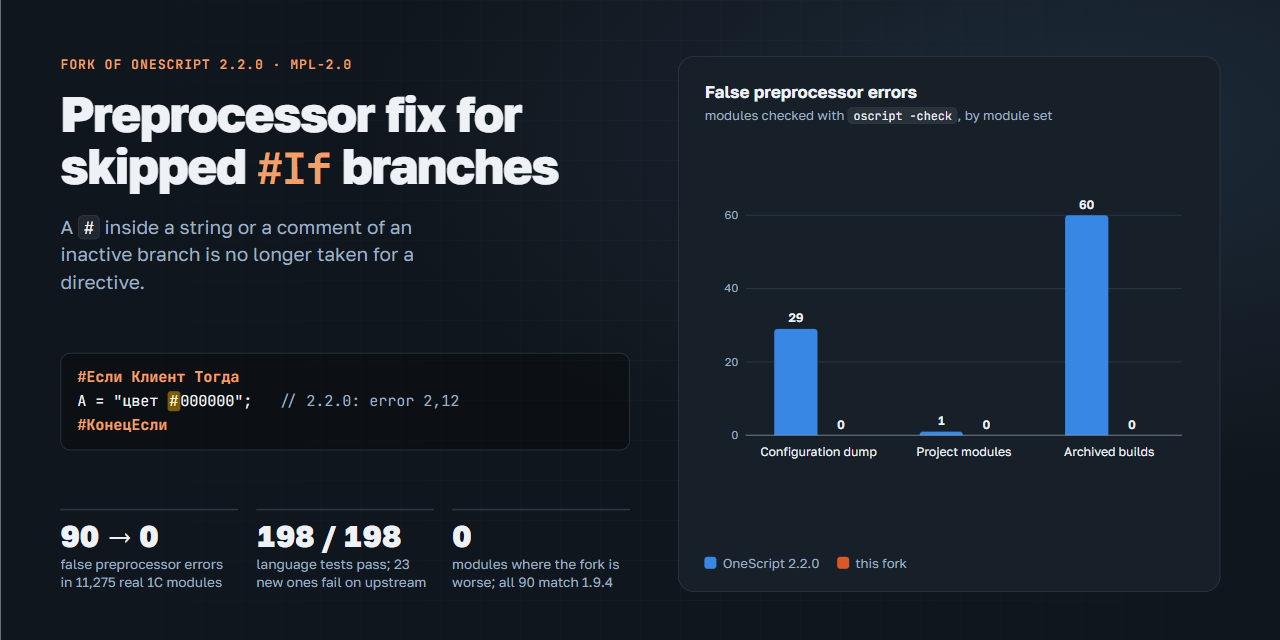
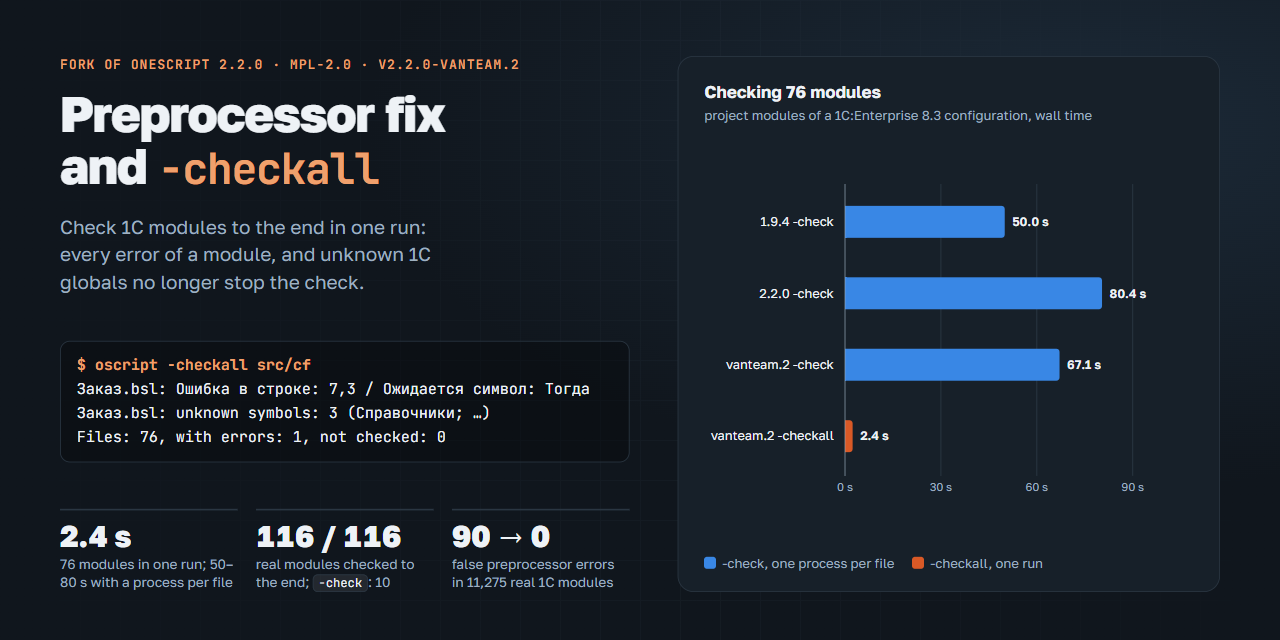
docs: page for v2.2.0-vanteam.2: -checkall measurements, new cover

diff --git a/index.html b/index.html
@@ -3,10 +3,10 @@
 <head>
 <meta charset="utf-8">
 <meta name="viewport" content="width=device-width, initial-scale=1, viewport-fit=cover">
-<title>OneScript preprocessor fix</title>
-<meta name="description" content="A fork of OneScript 2.2.0: a # inside strings and comments of an inactive #If branch is no longer taken for a directive. 90 false errors to 0 on 11,275 real 1C modules.">
-<meta property="og:title" content="OneScript preprocessor fix">
-<meta property="og:description" content="A fork of OneScript 2.2.0: a # inside strings and comments of an inactive #If branch is no longer taken for a directive. 90 false errors to 0 on 11,275 real 1C modules.">
+<title>OneScript fork: preprocessor fix and -checkall</title>
+<meta name="description" content="A fork of OneScript 2.2.0 for checking 1C code: oscript -checkall checks whole modules in one run (76 modules in 2.4 s instead of 50–80 s), and a # inside strings of an inactive #If branch is no longer taken for a directive.">
+<meta property="og:title" content="OneScript fork: preprocessor fix and -checkall">
+<meta property="og:description" content="A fork of OneScript 2.2.0 for checking 1C code: oscript -checkall checks whole modules in one run (76 modules in 2.4 s instead of 50–80 s), and a # inside strings of an inactive #If branch is no longer taken for a directive.">
 <meta property="og:image" content="https://ivanbokhan84.github.io/OneScript/cover.png">
 <meta property="og:url" content="https://ivanbokhan84.github.io/OneScript/">
 <meta name="twitter:card" content="summary_large_image">
@@ -141,26 +141,55 @@ footer { color: var(--faint); font-size: 13px; border-top: 1px solid var(--line)
 <header class="hero" id="cover">
   <div class="left">
     <div>
-      <div class="kicker">Fork of OneScript 2.2.0 · MPL-2.0</div>
-      <h1>Preprocessor fix for skipped <span class="code">#If</span> branches</h1>
-      <p class="tag">A <code>#</code> inside a string or a comment of an inactive branch is no longer taken for a directive.</p>
+      <div class="kicker">Fork of OneScript 2.2.0 · MPL-2.0 · v2.2.0-vanteam.2</div>
+      <h1>Preprocessor fix and <span class="code">-checkall</span></h1>
+      <p class="tag">Check 1C modules to the end in one run: every error of a module, and unknown 1C globals no longer stop the check.</p>
     </div>
-    <div class="snippet"><span class="dir">#Если Клиент Тогда</span>
-А = "цвет <mark>#</mark>000000";   <span style="color:#9fb0c0">// 2.2.0: error 2,12</span>
-<span class="dir">#КонецЕсли</span></div>
+    <div class="snippet"><span class="dir">$ oscript -checkall src/cf</span>
+Заказ.bsl: Ошибка в строке: 7,3 / Ожидается символ: Тогда
+Заказ.bsl: unknown symbols: 3 (Справочники; …)
+Files: 76, with errors: 1, not checked: 0</div>
     <div class="stats">
+      <div class="stat"><b>2.4 s</b><span>76 modules in one run; 50–80 s with a process per file</span></div>
+      <div class="stat"><b>116 / 116</b><span>real modules checked to the end; <code>-check</code>: 10</span></div>
       <div class="stat"><b>90 → 0</b><span>false preprocessor errors in 11,275 real 1C modules</span></div>
-      <div class="stat"><b>198 / 198</b><span>language tests pass; 23 new ones fail on upstream</span></div>
-      <div class="stat"><b>0</b><span>modules where the fork is worse; all 90 match 1.9.4</span></div>
     </div>
   </div>
   <div class="right">
-    <div><h2>False preprocessor errors</h2><div class="sub">modules checked with <code>oscript -check</code>, by module set</div></div>
-    <svg viewBox="0 0 520 300" role="img" aria-label="False preprocessor errors per module set: OneScript 2.2.0 versus the fork" xmlns="http://www.w3.org/2000/svg"><line x1="44" y1="252.0" x2="508" y2="252.0" stroke="var(--h-line)"/><text x="36" y="256.0" text-anchor="end" font-size="12" fill="var(--h-muted)">0</text><line x1="44" y1="174.0" x2="508" y2="174.0" stroke="var(--h-line)"/><text x="36" y="178.0" text-anchor="end" font-size="12" fill="var(--h-muted)">20</text><line x1="44" y1="96.0" x2="508" y2="96.0" stroke="var(--h-line)"/><text x="36" y="100.0" text-anchor="end" font-size="12" fill="var(--h-muted)">40</text><line x1="44" y1="18.0" x2="508" y2="18.0" stroke="var(--h-line)"/><text x="36" y="22.0" text-anchor="end" font-size="12" fill="var(--h-muted)">60</text><path d="M74.3,252.0 V142.9 Q74.3,138.9 78.3,138.9 H116.3 Q120.3,138.9 120.3,142.9 V252.0 Z" fill="var(--h-s1)"><title>Configuration dump — 2.2.0: 29</title></path><text x="97.3" y="131.9" text-anchor="middle" font-size="13" font-weight="600" fill="var(--h-ink)">29</text><text x="145.3" y="245.0" text-anchor="middle" font-size="13" font-weight="600" fill="var(--h-ink)">0</text><text x="121.3" y="274" text-anchor="middle" font-size="13" fill="var(--h-ink)">Configuration dump</text><path d="M229.0,252.0 V252.1 Q229.0,248.1 233.0,248.1 H271.0 Q275.0,248.1 275.0,252.1 V252.0 Z" fill="var(--h-s1)"><title>Project modules — 2.2.0: 1</title></path><text x="252.0" y="241.1" text-anchor="middle" font-size="13" font-weight="600" fill="var(--h-ink)">1</text><text x="300.0" y="245.0" text-anchor="middle" font-size="13" font-weight="600" fill="var(--h-ink)">0</text><text x="276.0" y="274" text-anchor="middle" font-size="13" fill="var(--h-ink)">Project modules</text><path d="M383.7,252.0 V22.0 Q383.7,18.0 387.7,18.0 H425.7 Q429.7,18.0 429.7,22.0 V252.0 Z" fill="var(--h-s1)"><title>Archived builds — 2.2.0: 60</title></path><text x="406.7" y="11.0" text-anchor="middle" font-size="13" font-weight="600" fill="var(--h-ink)">60</text><text x="454.7" y="245.0" text-anchor="middle" font-size="13" font-weight="600" fill="var(--h-ink)">0</text><text x="430.7" y="274" text-anchor="middle" font-size="13" fill="var(--h-ink)">Archived builds</text><line x1="44" y1="252" x2="508" y2="252" stroke="var(--h-muted)" stroke-opacity=".6"/></svg>
-    <div class="legend"><span><i style="background:var(--h-s1)"></i>OneScript 2.2.0</span><span><i style="background:var(--h-s2)"></i>this fork</span></div>
+    <div><h2>Checking 76 modules</h2><div class="sub">project modules of a 1C:Enterprise 8.3 configuration, wall time</div></div>
+    <svg viewBox="0 0 520 342" role="img" aria-label="Time to check 76 modules of a 1C configuration" xmlns="http://www.w3.org/2000/svg"><line x1="150.0" y1="6" x2="150.0" y2="316" stroke="var(--h-line)" stroke-width="1"/><text x="150.0" y="332" text-anchor="middle" font-size="12" fill="var(--h-muted)">0 s</text><line x1="252.0" y1="6" x2="252.0" y2="316" stroke="var(--h-line)" stroke-width="1"/><text x="252.0" y="332" text-anchor="middle" font-size="12" fill="var(--h-muted)">30 s</text><line x1="354.0" y1="6" x2="354.0" y2="316" stroke="var(--h-line)" stroke-width="1"/><text x="354.0" y="332" text-anchor="middle" font-size="12" fill="var(--h-muted)">60 s</text><line x1="456.0" y1="6" x2="456.0" y2="316" stroke="var(--h-line)" stroke-width="1"/><text x="456.0" y="332" text-anchor="middle" font-size="12" fill="var(--h-muted)">90 s</text><text x="138" y="50.5" text-anchor="end" font-size="13.5" fill="var(--h-ink)">1.9.4 -check</text><path d="M150,29.0 H315.9 Q319.9,29.0 319.9,33.0 V59.0 Q319.9,63.0 315.9,63.0 H150 Z" fill="var(--h-s1)"><title>1.9.4 -check: 50.0 s</title></path><text x="327.9" y="50.5" font-size="13" font-weight="600" fill="var(--h-ink)">50.0 s</text><text x="138" y="126.5" text-anchor="end" font-size="13.5" fill="var(--h-ink)">2.2.0 -check</text><path d="M150,105.0 H419.4 Q423.4,105.0 423.4,109.0 V135.0 Q423.4,139.0 419.4,139.0 H150 Z" fill="var(--h-s1)"><title>2.2.0 -check: 80.4 s</title></path><text x="431.4" y="126.5" font-size="13" font-weight="600" fill="var(--h-ink)">80.4 s</text><text x="138" y="202.5" text-anchor="end" font-size="13.5" fill="var(--h-ink)">vanteam.2 -check</text><path d="M150,181.0 H374.2 Q378.2,181.0 378.2,185.0 V211.0 Q378.2,215.0 374.2,215.0 H150 Z" fill="var(--h-s1)"><title>vanteam.2 -check: 67.1 s</title></path><text x="386.2" y="202.5" font-size="13" font-weight="600" fill="var(--h-ink)">67.1 s</text><text x="138" y="278.5" text-anchor="end" font-size="13.5" fill="var(--h-ink)">vanteam.2 -checkall</text><path d="M150,257.0 H154.1 Q158.1,257.0 158.1,261.0 V287.0 Q158.1,291.0 154.1,291.0 H150 Z" fill="var(--h-s2)"><title>vanteam.2 -checkall: 2.4 s</title></path><text x="166.1" y="278.5" font-size="13" font-weight="600" fill="var(--h-ink)">2.4 s</text><line x1="150" y1="6" x2="150" y2="316" stroke="var(--h-muted)" stroke-opacity=".6"/></svg>
+    <div class="legend"><span><i style="background:var(--h-s1)"></i>-check, one process per file</span><span><i style="background:var(--h-s2)"></i>-checkall, one run</span></div>
   </div>
 </header>
 <main class="page">
+
+<section>
+  <div class="head"><div class="eyebrow">-checkall · v2.2.0-vanteam.2</div><h2 class="t">Every error of every module, in one run</h2>
+  <p>On 1C modules <code>oscript -check</code> nearly always meets a name OneScript does not have — <code>Справочники</code>, <code>Документы</code>, a common module — and stops. OneScript 2.x parses the whole module first, so syntax is still checked in full, but the code generator checks after that point never run: argument count of the module's own methods, a procedure used as a function, a duplicate method, labels. OneScript 1.9.4 compiles in one pass and sees nothing at all after the first unknown name. Each <code>-check</code> also starts the engine: about 0.7 s of 0.9 s per file.</p>
+  <p><code>-checkall</code> starts the engine once for all files, collects errors instead of stopping at the first, and lists unknown names separately. <code>-check</code> itself is unchanged. The 2.2.0-vanteam.2 build is also published with ReadyToRun.</p></div>
+  <div class="grid2">
+    <div class="card"><h3>Checking 76 modules</h3><div class="chart"><svg viewBox="0 0 620 198" role="img" aria-label="Wall time to check 76 modules" xmlns="http://www.w3.org/2000/svg"><line x1="170.0" y1="6" x2="170.0" y2="172" stroke="var(--grid)" stroke-width="1"/><text x="170.0" y="188" text-anchor="middle" font-size="12" fill="var(--muted)">0 s</text><line x1="234.3" y1="6" x2="234.3" y2="172" stroke="var(--grid)" stroke-width="1"/><text x="234.3" y="188" text-anchor="middle" font-size="12" fill="var(--muted)">15 s</text><line x1="298.7" y1="6" x2="298.7" y2="172" stroke="var(--grid)" stroke-width="1"/><text x="298.7" y="188" text-anchor="middle" font-size="12" fill="var(--muted)">30 s</text><line x1="363.0" y1="6" x2="363.0" y2="172" stroke="var(--grid)" stroke-width="1"/><text x="363.0" y="188" text-anchor="middle" font-size="12" fill="var(--muted)">45 s</text><line x1="427.3" y1="6" x2="427.3" y2="172" stroke="var(--grid)" stroke-width="1"/><text x="427.3" y="188" text-anchor="middle" font-size="12" fill="var(--muted)">60 s</text><line x1="491.7" y1="6" x2="491.7" y2="172" stroke="var(--grid)" stroke-width="1"/><text x="491.7" y="188" text-anchor="middle" font-size="12" fill="var(--muted)">75 s</text><line x1="556.0" y1="6" x2="556.0" y2="172" stroke="var(--grid)" stroke-width="1"/><text x="556.0" y="188" text-anchor="middle" font-size="12" fill="var(--muted)">90 s</text><text x="158" y="32.5" text-anchor="end" font-size="13.5" fill="var(--ink)">1.9.4 -check</text><path d="M170,15.0 H380.3 Q384.3,15.0 384.3,19.0 V37.0 Q384.3,41.0 380.3,41.0 H170 Z" fill="var(--s1)"><title>1.9.4 -check: 50.0 s</title></path><text x="392.3" y="32.5" font-size="13" font-weight="600" fill="var(--ink)">50.0 s</text><text x="158" y="72.5" text-anchor="end" font-size="13.5" fill="var(--ink)">2.2.0 -check</text><path d="M170,55.0 H510.9 Q514.9,55.0 514.9,59.0 V77.0 Q514.9,81.0 510.9,81.0 H170 Z" fill="var(--s1)"><title>2.2.0 -check: 80.4 s</title></path><text x="522.9" y="72.5" font-size="13" font-weight="600" fill="var(--ink)">80.4 s</text><text x="158" y="112.5" text-anchor="end" font-size="13.5" fill="var(--ink)">vanteam.2 -check</text><path d="M170,95.0 H453.9 Q457.9,95.0 457.9,99.0 V117.0 Q457.9,121.0 453.9,121.0 H170 Z" fill="var(--s1)"><title>vanteam.2 -check: 67.1 s</title></path><text x="465.9" y="112.5" font-size="13" font-weight="600" fill="var(--ink)">67.1 s</text><text x="158" y="152.5" text-anchor="end" font-size="13.5" fill="var(--ink)">vanteam.2 -checkall</text><path d="M170,135.0 H176.2 Q180.2,135.0 180.2,139.0 V157.0 Q180.2,161.0 176.2,161.0 H170 Z" fill="var(--s2)"><title>vanteam.2 -checkall: 2.4 s</title></path><text x="188.2" y="152.5" font-size="13" font-weight="600" fill="var(--ink)">2.4 s</text><line x1="170" y1="6" x2="170" y2="172" stroke="var(--muted)" stroke-opacity=".6"/></svg></div>
+      <div class="legend2"><span><i style="background:var(--s1)"></i>-check, one process per file</span><span><i style="background:var(--s2)"></i>-checkall, one run</span></div>
+      <p class="note">Project modules of a 1C:Enterprise 8.3 configuration, wall time of one short run on a loaded machine.</p>
+      <details><summary>Data</summary><table><thead><tr><th>Mode</th><th class=n>Seconds</th></tr></thead><tbody><tr><td>1.9.4 -check</td><td class=n>49.96</td></tr><tr><td>2.2.0 -check</td><td class=n>80.41</td></tr><tr><td>2.2.0-vanteam.2 -check</td><td class=n>67.12</td></tr><tr><td>2.2.0-vanteam.2 -checkall</td><td class=n>2.38</td></tr></tbody></table></details></div>
+    <div class="card"><h3>One 155 KB module</h3><div class="chart"><svg viewBox="0 0 620 238" role="img" aria-label="Median time to check one 155 KB module" xmlns="http://www.w3.org/2000/svg"><line x1="170.0" y1="6" x2="170.0" y2="212" stroke="var(--grid)" stroke-width="1"/><text x="170.0" y="228" text-anchor="middle" font-size="12" fill="var(--muted)">0 s</text><line x1="266.5" y1="6" x2="266.5" y2="212" stroke="var(--grid)" stroke-width="1"/><text x="266.5" y="228" text-anchor="middle" font-size="12" fill="var(--muted)">0.2 s</text><line x1="363.0" y1="6" x2="363.0" y2="212" stroke="var(--grid)" stroke-width="1"/><text x="363.0" y="228" text-anchor="middle" font-size="12" fill="var(--muted)">0.4 s</text><line x1="459.5" y1="6" x2="459.5" y2="212" stroke="var(--grid)" stroke-width="1"/><text x="459.5" y="228" text-anchor="middle" font-size="12" fill="var(--muted)">0.6 s</text><line x1="556.0" y1="6" x2="556.0" y2="212" stroke="var(--grid)" stroke-width="1"/><text x="556.0" y="228" text-anchor="middle" font-size="12" fill="var(--muted)">0.8 s</text><text x="158" y="32.5" text-anchor="end" font-size="13.5" fill="var(--ink)">1.9.4 -check</text><path d="M170,15.0 H413.5 Q417.5,15.0 417.5,19.0 V37.0 Q417.5,41.0 413.5,41.0 H170 Z" fill="var(--s1)"><title>1.9.4 -check: 0.51 s</title></path><text x="425.5" y="32.5" font-size="13" font-weight="600" fill="var(--ink)">0.51 s</text><text x="158" y="72.5" text-anchor="end" font-size="13.5" fill="var(--ink)">2.2.0 -check</text><path d="M170,55.0 H498.0 Q502.0,55.0 502.0,59.0 V77.0 Q502.0,81.0 498.0,81.0 H170 Z" fill="var(--s1)"><title>2.2.0 -check: 0.69 s</title></path><text x="510.0" y="72.5" font-size="13" font-weight="600" fill="var(--ink)">0.69 s</text><text x="158" y="112.5" text-anchor="end" font-size="13.5" fill="var(--ink)">2.2.0-vanteam.1 -check</text><path d="M170,95.0 H500.4 Q504.4,95.0 504.4,99.0 V117.0 Q504.4,121.0 500.4,121.0 H170 Z" fill="var(--s1)"><title>2.2.0-vanteam.1 -check: 0.69 s</title></path><text x="512.4" y="112.5" font-size="13" font-weight="600" fill="var(--ink)">0.69 s</text><text x="158" y="152.5" text-anchor="end" font-size="13.5" fill="var(--ink)">vanteam.2 -check</text><path d="M170,135.0 H396.2 Q400.2,135.0 400.2,139.0 V157.0 Q400.2,161.0 396.2,161.0 H170 Z" fill="var(--s1)"><title>vanteam.2 -check: 0.48 s</title></path><text x="408.2" y="152.5" font-size="13" font-weight="600" fill="var(--ink)">0.48 s</text><text x="158" y="192.5" text-anchor="end" font-size="13.5" fill="var(--ink)">vanteam.2 -checkall</text><path d="M170,175.0 H462.3 Q466.3,175.0 466.3,179.0 V197.0 Q466.3,201.0 462.3,201.0 H170 Z" fill="var(--s2)"><title>vanteam.2 -checkall: 0.61 s</title></path><text x="474.3" y="192.5" font-size="13" font-weight="600" fill="var(--ink)">0.61 s</text><line x1="170" y1="6" x2="170" y2="212" stroke="var(--muted)" stroke-opacity=".6"/></svg></div>
+      <div class="legend2"><span><i style="background:var(--s1)"></i>-check</span><span><i style="background:var(--s2)"></i>-checkall</span></div>
+      <p class="note">Median of 7 interleaved runs. ReadyToRun makes plain <code>-check</code> about a third faster than the official 2.2.0.</p>
+      <details><summary>Data</summary><table><thead><tr><th>Mode</th><th class=n>Median, s</th></tr></thead><tbody><tr><td>1.9.4 -check</td><td class=n>0.513</td></tr><tr><td>2.2.0 -check</td><td class=n>0.688</td></tr><tr><td>2.2.0-vanteam.1 -check</td><td class=n>0.693</td></tr><tr><td>2.2.0-vanteam.2 -check</td><td class=n>0.477</td></tr><tr><td>2.2.0-vanteam.2 -checkall</td><td class=n>0.614</td></tr></tbody></table></details></div>
+  </div>
+  <div class="card"><h3>What each engine finds</h3>
+    <p class="note">19 hand-written modules with known error lines, each starting with a <code>Справочники</code> call like real 1C code; 116 real modules (76 of an УПП project, 40 common modules of УТ 10.3). 1.9.4 and 2.2.0 use <code>-check</code>, the fork uses <code>-checkall</code>.</p>
+    <div class="tbl matrix"><table><thead><tr><th>Found</th><th style="text-align:center">1.9.4</th><th style="text-align:center">2.2.0</th><th style="text-align:center">2.2.0-vanteam.2</th></tr></thead>
+<tbody><tr><td>Syntax errors after an unknown 1C global</td><td class="c"><span class="pill bad">0 / 10</span></td><td class="c"><span class="pill good">10 / 10</span></td><td class="c"><span class="pill good">10 / 10</span></td></tr><tr><td>Code generator errors after an unknown global</td><td class="c"><span class="pill bad">0 / 4</span></td><td class="c"><span class="pill bad">0 / 4</span></td><td class="c"><span class="pill good">4 / 4</span></td></tr><tr><td>Both errors of a module with two</td><td class="c"><span class="pill bad">0 / 4</span></td><td class="c"><span class="pill bad">2 / 4</span></td><td class="c"><span class="pill good">4 / 4</span></td></tr><tr><td>Valid modules without a false error</td><td class="c"><span class="pill good">3 / 3</span></td><td class="c"><span class="pill bad">2 / 3</span></td><td class="c"><span class="pill good">3 / 3</span></td></tr><tr><td>Real modules checked to the end</td><td class="c"><span class="pill bad">10 / 116</span></td><td class="c"><span class="pill bad">10 / 116</span></td><td class="c"><span class="pill good">116 / 116</span></td></tr><tr><td>Preprocessor tests (<code>tests/preprocessor-skipped-branch.os</code>)</td><td class="c"><span class="pill bad">13 / 14</span></td><td class="c"><span class="pill bad">4 / 14</span></td><td class="c"><span class="pill good">14 / 14</span></td></tr></tbody></table></div></div>
+  <div class="card"><h3>Usage</h3>
+<pre class="block">oscript -encoding=utf-8 -checkall &lt;file or folder&gt; [...]
+  &lt;file&gt;: Ошибка в строке: N,M / message      every error of the module
+  &lt;file&gt;: No errors.
+  &lt;file&gt;: unknown symbols: K (...)           the 1C global context, not an error
+  Files: X, with errors: Y, not checked: Z
+Exit code: 0 no errors, 1 errors, 2 a file could not be checked.</pre>
+    <p class="note">OneScript defines no 1C preprocessor symbols, so code under <code>#Если Сервер Тогда</code> is an inactive branch and is skipped by any mode. To check it, also pass a copy of the module with the directive lines blanked out; line numbers stay the same.</p></div>
+</section>
 
 <section>
   <div class="head"><div class="eyebrow">The bug</div><h2 class="t">A flag that never resets</h2>
@@ -232,16 +261,17 @@ footer { color: var(--faint); font-size: 13px; border-top: 1px solid var(--line)
   <pre class="block">git clone https://github.com/ivanbokhan84/OneScript.git
 cd OneScript
 dotnet test src/Tests/OneScript.Language.Tests/OneScript.Language.Tests.csproj -c Release -p:Platform=AnyCPU
-dotnet publish src/oscript/oscript.csproj -r win-x64 --self-contained -c Release -p:VersionPrefix=2.2.0 -p:VersionSuffix=fork.1 -o dist/bin</pre>
+dotnet publish src/oscript/oscript.csproj -r win-x64 --self-contained -c Release -p:VersionPrefix=2.2.0 -p:VersionSuffix=vanteam.2 -p:PublishReadyToRun=true -o dist/bin</pre>
   <div class="links">
     <a href="https://github.com/ivanbokhan84/OneScript">Repository</a>
+    <a href="https://github.com/ivanbokhan84/OneScript/tree/v2.2.0-vanteam.2">Tag v2.2.0-vanteam.2</a>
     <a href="https://github.com/ivanbokhan84/OneScript/commit/df056d404f1a6f7b4ea6e56f6c39fd8a1132d4a7">The fix commit</a>
+    <a href="https://github.com/ivanbokhan84/OneScript/commit/b0dd31cb6bfc074329df7d88bfdc21f5452ff2a5">The -checkall commit</a>
     <a href="https://github.com/EvilBeaver/OneScript">Upstream OneScript</a>
-    <a href="https://github.com/ivanbokhan84/vanteam-bsl-check">Vanteam BSL Check</a>
   </div>
 </section>
 
-<footer>OneScript by Andrei Ovsiankin (EvilBeaver) and the OneScript contributors, MPL-2.0. Fork maintained by Ivan Bokhan. Measurements: 28 September 2026, Windows 11, .NET SDK 10.0.401.</footer>
+<footer>OneScript by Andrei Ovsiankin (EvilBeaver) and the OneScript contributors, MPL-2.0. Fork maintained by Ivan Bokhan. Measurements: 28–29 September 2026, Windows 11, .NET SDK 10.0.401.</footer>
 
 </main>
 </body>
